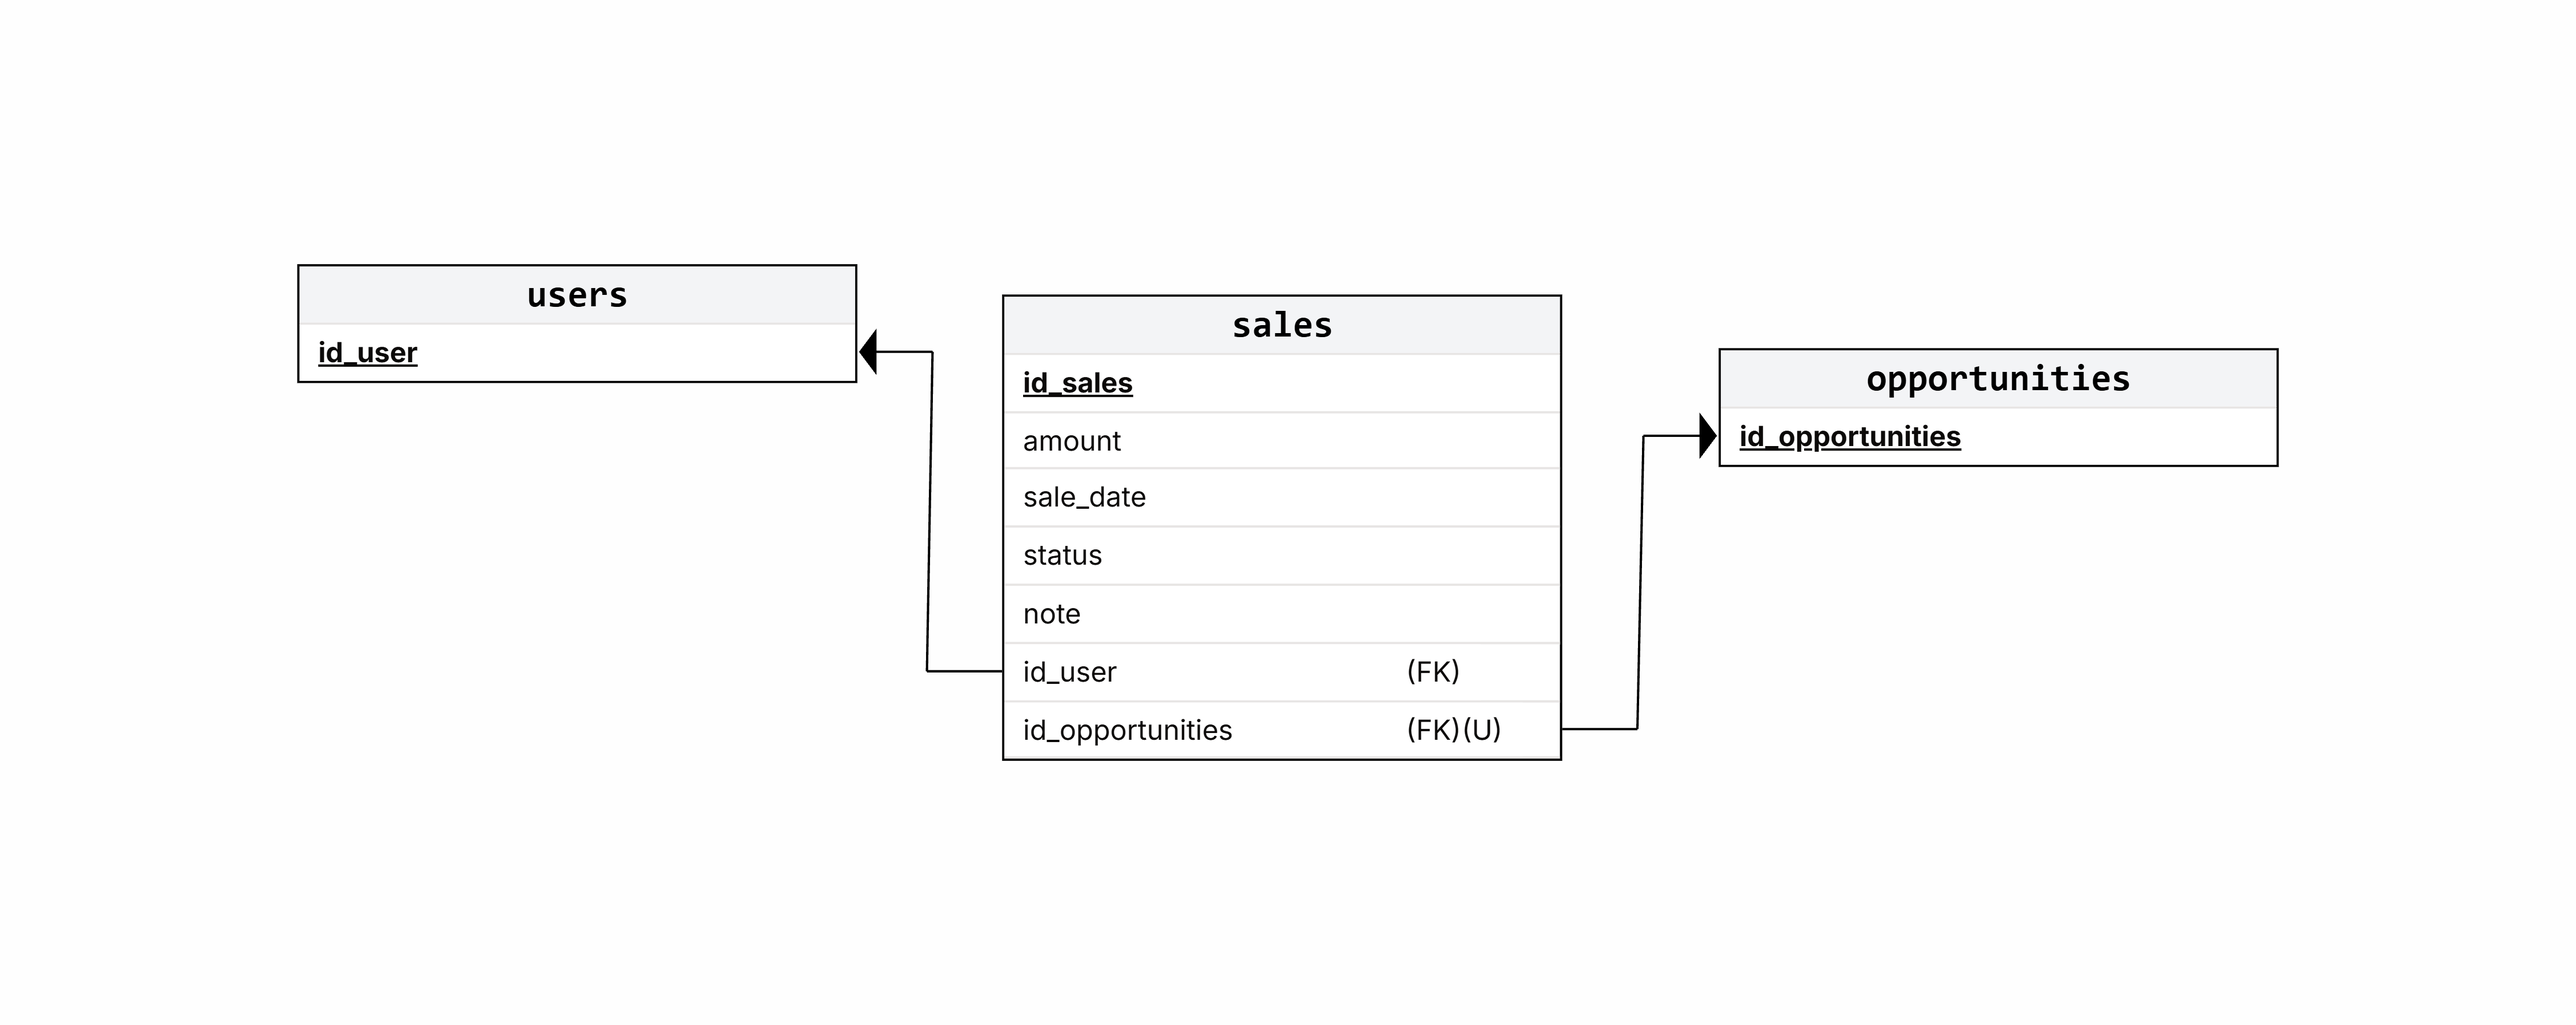
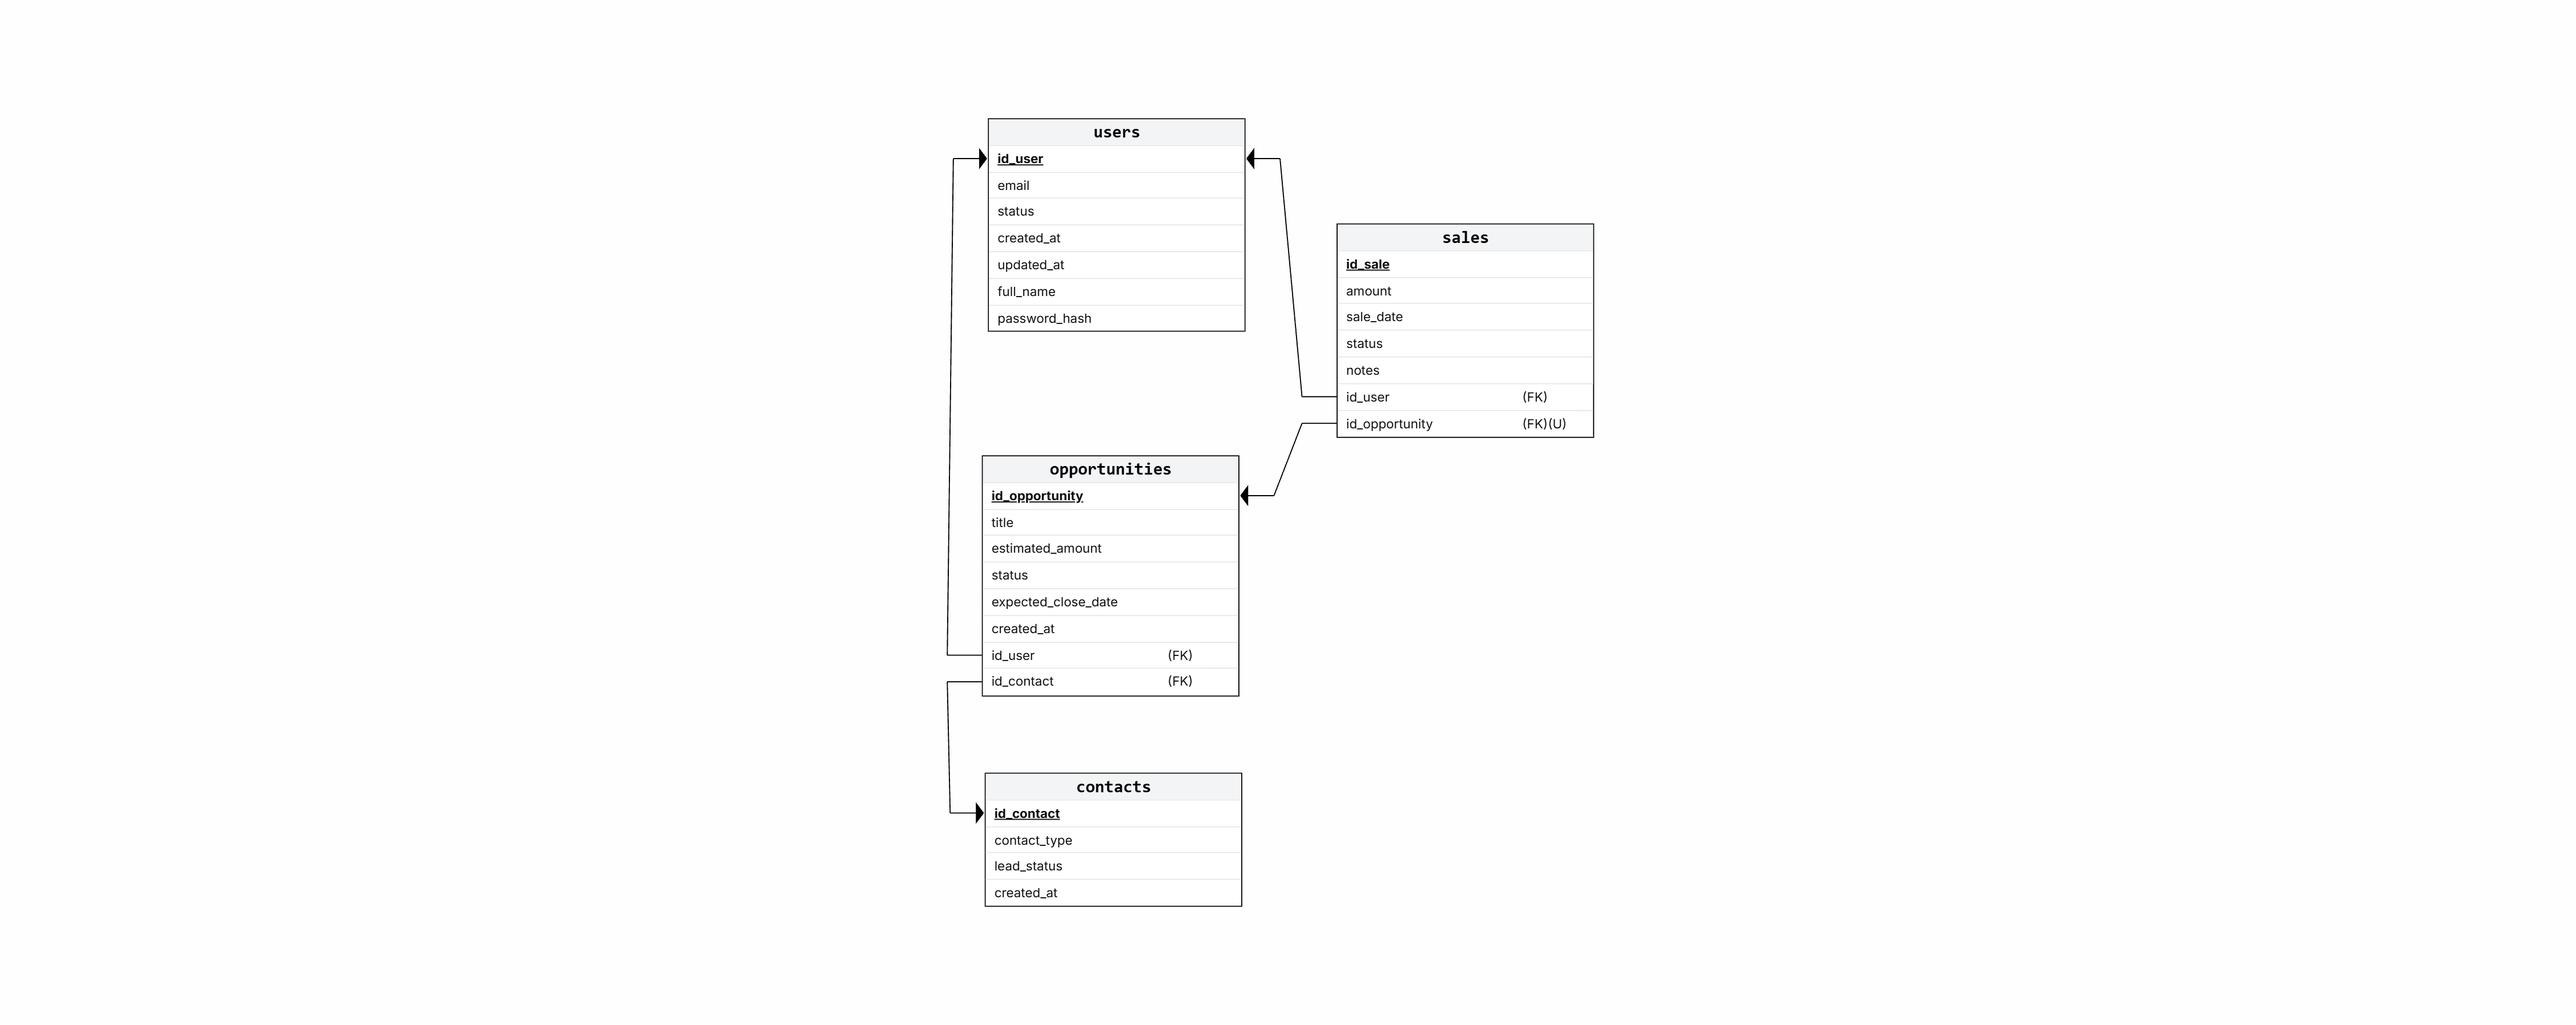
database diagram corregido

diff --git a/README.md b/README.md
@@ -545,83 +545,73 @@ La base de datos se organiza en cuatro bounded contexts: **Identity and Access**
 
 ![Database Diagram Identity and Access](Resources/Chapter4/Database-diagram/databaseIdentityAccessDiagram.png)
 
-Este diagrama representa la persistencia de usuarios, roles y permisos. La tabla `users` almacena los datos de acceso de los usuarios, mientras que `roles` define sus responsabilidades dentro de NovaLeads. La relación entre roles y permisos se implementa mediante la tabla intermedia `role_permissions`.
+Este diagrama presenta las tablas que permiten identificar a los usuarios y controlar sus permisos. `users` conserva la cuenta y el rol asignado; `roles` define los perfiles de acceso; `permissions` enumera las acciones autorizables; y `role_permissions` relaciona cada rol con sus permisos.
 
 | Tabla | Columnas principales |
-|---|---|
+| :--- | :--- |
 | `roles` | `id_role: BIGINT [PK]`, `name: VARCHAR(50) [UQ]`, `description: VARCHAR(255)` |
-| `users` | `id_user: BIGINT [PK]`, `id_role: BIGINT [FK]`, `email: VARCHAR(120) [UQ]`, `password_hash: VARCHAR(255)`, `status: ENUM('ACTIVE','INACTIVE')`, `created_at: DATETIME`, `updated_at: DATETIME`, `full_name: VARCHAR(120)` |
-| `permissions` | `id_permission: BIGINT [PK]`, `code: VARCHAR(80) [UQ]`, `description: VARCHAR(255)` |
+| `users` | `id_user: BIGINT [PK]`, `email: VARCHAR(120) [UQ]`, `password_hash: VARCHAR(255)`, `status: ENUM('ACTIVE','INACTIVE')`, `created_at: DATETIME`, `updated_at: DATETIME`, `full_name: VARCHAR(120)`, `id_role: BIGINT [FK]` |
+| `permissions` | `id_permission: BIGINT [PK]`, `code: VARCHAR(80) [UQ]` |
 | `role_permissions` | `id_role: BIGINT [PK, FK]`, `id_permission: BIGINT [PK, FK]` |
 
-* **roles:** define las responsabilidades que puede tener cada usuario dentro de NovaLeads, como dueño o vendedor.
-
-* **users:** almacena la información de acceso de cada usuario, incluyendo su correo, contraseña cifrada, estado y rol asignado.
-
-* **permissions:** define las acciones disponibles en la plataforma, como gestionar leads, contactos, conversaciones, usuarios o consultar métricas.
-
-* **role_permissions:** establece una relación de muchos a muchos entre roles y permisos, permitiendo asignar varios permisos a cada rol.
+* **`roles`:** identifica perfiles como dueño y vendedor. Un rol puede estar asignado a varios usuarios.
+* **`users`:** almacena los datos de acceso y el estado de cada cuenta. Su columna `id_role` referencia `roles.id_role`; la contraseña se representa mediante su hash, no mediante el valor original.
+* **`permissions`:** identifica acciones como gestionar usuarios, leads y conversaciones o consultar métricas. La unicidad de `code` evita códigos de permiso duplicados.
+* **`role_permissions`:** resuelve la relación de muchos a muchos entre roles y permisos. La combinación de `id_role` e `id_permission` forma su clave primaria y evita asignar dos veces el mismo permiso a un rol.
 
 ##### Lead and Contact Management
 
 ![Database Diagram Lead and Contact Management](Resources/Chapter4/Database-diagram/databaseLeadContactDiagram.png)
 
-Este diagrama representa la persistencia del bounded context **Lead and Contact Management**. La tabla `contacts` centraliza la información de leads y clientes; `tags` y `contact_tags` permiten clasificarlos; y `opportunities` registra las oportunidades comerciales asignadas a un vendedor.
+Este diagrama muestra cómo se guardan los leads, clientes, etiquetas y oportunidades comerciales. `contacts` reúne los datos comunes de leads y clientes; `contact_type` distingue ambas categorías y `lead_status` registra el estado de un lead. `users` aparece como referencia al contexto Identity and Access para indicar el usuario responsable de un contacto o una oportunidad.
 
 | Tabla | Columnas principales |
 | :--- | :--- |
-| `contacts` | `id_contact: BIGINT [PK]`, `id_user: BIGINT [FK]`, `full_name: VARCHAR(120)`, `email: VARCHAR(120)`, `phone: VARCHAR(30) [UQ]`, `company: VARCHAR(120)`, `contact_type: VARCHAR(10)`, `lead_status: VARCHAR(20)`, `source: VARCHAR(80)`, `created_at: DATETIME`, `updated_at: DATETIME` |
+| `contacts` | `id_contact: BIGINT [PK]`, `full_name: VARCHAR(120)`, `email: VARCHAR(120)`, `phone: VARCHAR(30) [UQ]`, `company: VARCHAR(120)`, `contact_type: VARCHAR(10)`, `lead_status: VARCHAR(20)`, `source: VARCHAR(80)`, `created_at: DATETIME`, `updated_at: DATETIME`, `id_user: BIGINT [FK]` |
 | `tags` | `id_tag: BIGINT [PK]`, `name: VARCHAR(50) [UQ]`, `color: VARCHAR(20)` |
 | `contact_tags` | `id_contact: BIGINT [PK, FK]`, `id_tag: BIGINT [PK, FK]` |
-| `opportunities` | `id_opportunity: BIGINT [PK]`, `id_contact: BIGINT [FK]`, `id_user: BIGINT [FK]`, `title: VARCHAR(150)`, `estimated_amount: DECIMAL(12,2)`, `status: VARCHAR(10)`, `expected_close_date: DATE`, `created_at: DATETIME` |
-| `user` | `id_user: BIGINT [PK]` |
+| `opportunities` | `id_opportunity: BIGINT [PK]`, `title: VARCHAR(150)`, `estimated_amount: DECIMAL(12,2)`, `status: VARCHAR(10)`, `expected_close_date: DATE`, `created_at: DATETIME`, `id_user: BIGINT [FK]`, `id_contact: BIGINT [FK]` |
+| `users` *(referencia externa)* | Se muestran `id_user: BIGINT [PK]`, `email: VARCHAR(120) [UQ]`, `status: ENUM('ACTIVE','INACTIVE')`, `created_at: DATETIME`, `updated_at: DATETIME`, `full_name: VARCHAR(120)` y `password_hash: VARCHAR(255)`. La definición de la tabla y su relación con `roles` pertenecen a Identity and Access. |
 
-* **contacts:** almacena los datos de leads y clientes. El atributo `contact_type` permite diferenciarlos y `lead_status` registra el estado comercial del lead.
-
-* **tags y contact_tags:** permiten asignar una o varias etiquetas a cada contacto.
-
-* **opportunities:** registra el monto estimado, estado, fecha esperada de cierre, contacto asociado y vendedor responsable.
-
-* **user:** se muestra como referencia del bounded context Identity and Access para asignar contactos y oportunidades a un vendedor.
+* **`contacts`:** registra los datos de contacto y su clasificación. `id_user` identifica al usuario responsable y `phone` permite localizar un contacto cuando llega un mensaje de WhatsApp.
+* **`tags` y `contact_tags`:** permiten asignar varias etiquetas a un contacto y utilizar una misma etiqueta en distintos contactos. `contact_tags` tiene una clave primaria compuesta.
+* **`opportunities`:** conserva el título, monto estimado, estado, fecha esperada de cierre, contacto asociado y usuario responsable. `id_contact` referencia `contacts.id_contact` e `id_user` referencia `users.id_user`.
+* **`users`:** se incluye para hacer visibles las relaciones con contactos y oportunidades. No representa una segunda tabla física ni administra roles dentro de este contexto.
 
 ##### Conversation Management
 
 ![Database Diagram Conversation Management](Resources/Chapter4/Database-diagram/databaseConversationManagementDiagram.png)
 
-Este diagrama representa la persistencia del bounded context **Conversation Management**. Gestiona las conversaciones con contactos, los mensajes recibidos o enviados mediante WhatsApp y las notificaciones dirigidas a los usuarios responsables.
+Este diagrama representa la persistencia de conversaciones, mensajes y notificaciones. Cada conversación se asocia con un contacto y un usuario responsable. Las referencias a `contacts` y `users` muestran los datos necesarios para identificar al contacto en WhatsApp y al destinatario de las alertas, sin redefinir esas tablas en este bounded context.
 
 | Tabla | Columnas principales |
 | :--- | :--- |
-| `conversations` | `id_conversation: BIGINT [PK]`, `id_contact: BIGINT [FK]`, `id_user: BIGINT [FK]`, `channel: VARCHAR(30)`, `status: VARCHAR(10)`, `priority: VARCHAR(10)`, `pending_since: DATETIME`, `last_message_at: DATETIME`, `created_at: DATETIME` |
-| `messages` | `id_message: BIGINT [PK]`, `id_conversation: BIGINT [FK]`, `sender_type: VARCHAR(10)`, `content: TEXT`, `sent_at: DATETIME`, `external_message_id: VARCHAR(120) [UQ]` |
-| `notifications` | `id_notification: BIGINT [PK]`, `id_user: BIGINT [FK]`, `id_conversation: BIGINT [FK]`, `type: VARCHAR(30)`, `content: VARCHAR(255)`, `is_read: BOOLEAN`, `created_at: DATETIME` |
-| `contacts` | `id_contact: BIGINT [PK]` |
-| `users` | `id_user: BIGINT [PK]` |
+| `conversations` | `id_conversation: BIGINT [PK]`, `channel: VARCHAR(30)`, `status: VARCHAR(10)`, `priority: VARCHAR(10)`, `pending_since: DATETIME`, `last_message_at: DATETIME`, `created_at: DATETIME`, `id_contact: BIGINT [FK]`, `id_user: BIGINT [FK]` |
+| `messages` | `id_message: BIGINT [PK]`, `sender_type: VARCHAR(10)`, `content: TEXT`, `sent_at: DATETIME`, `external_message_id: VARCHAR(120) [UQ]`, `id_conversation: BIGINT [FK]` |
+| `notifications` | `id_notification: BIGINT [PK]`, `type: VARCHAR(30)`, `content: VARCHAR(255)`, `is_read: BOOLEAN`, `created_at: DATETIME`, `id_user: BIGINT [FK]`, `id_conversation: BIGINT [FK]` |
+| `contacts` *(referencia externa)* | Se muestran `id_contact: BIGINT [PK]`, `full_name: VARCHAR(120)`, `phone: VARCHAR(30) [UQ]` y `contact_type: VARCHAR(10)`. Su definición corresponde a Lead and Contact Management. |
+| `users` *(referencia externa)* | Se muestran `id_user: BIGINT [PK]`, `full_name: VARCHAR(120)`, `email: VARCHAR(120) [UQ]` y `status: ENUM('ACTIVE','INACTIVE')`. Su definición corresponde a Identity and Access. |
 
-* **conversations:** registra el canal, estado, prioridad y tiempo pendiente de respuesta de cada conversación asociada a un contacto y vendedor.
-
-* **messages:** almacena el contenido, remitente y fecha de cada mensaje. `external_message_id` permite identificar los mensajes recibidos desde WhatsApp Business API.
-
-* **notifications:** registra las alertas generadas para los vendedores cuando llega un mensaje, existe una conversación pendiente o se asigna prioridad.
-
-* **contacts y users:** se muestran como tablas de referencia para asociar cada conversación con un contacto y con el usuario responsable.
+* **`conversations`:** conserva el canal, estado, prioridad y fechas necesarias para medir el tiempo pendiente de respuesta. `id_contact` apunta al contacto y `id_user` al usuario responsable.
+* **`messages`:** guarda los mensajes enviados y recibidos. `external_message_id` identifica los mensajes de un proveedor externo y evita registrar dos veces un mismo identificador.
+* **`notifications`:** registra alertas para un usuario relacionadas con una conversación. `is_read` permite distinguir las alertas pendientes de las ya revisadas.
+* **`contacts` y `users`:** se muestran como referencias a tablas existentes. Sus claves `id_contact` e `id_user` son destinos de las FK del contexto de conversaciones.
 
 ##### Sales and Dashboard
 
 ![Database Diagram Sales and Dashboard](Resources/Chapter4/Database-diagram/databaseSalesDashboardDiagram.png)
 
-Este diagrama representa la persistencia del bounded context **Sales and Dashboard**. Registra las ventas concretadas y permite relacionarlas con la oportunidad comercial y el vendedor responsable.
+Este diagrama registra las ventas y muestra los datos consultados para calcular las métricas del dashboard. `sales` es la tabla propia del contexto; `opportunities` y `contacts` provienen de Lead and Contact Management, mientras que `users` proviene de Identity and Access. Estas referencias permiten relacionar una venta con su oportunidad y vendedor, y contar los leads registrados.
 
 | Tabla | Columnas principales |
 | :--- | :--- |
-| `sales` | `id_sale: BIGINT [PK]`, `id_user: BIGINT [FK]`, `id_opportunity: BIGINT [FK, UQ]`, `amount: DECIMAL(12,2)`, `sale_date: DATE`, `status: VARCHAR(20)`, `notes: TEXT` |
-| `users` | `id_user: BIGINT [PK]` |
-| `opportunities` | `id_opportunity: BIGINT [PK]` |
+| `sales` | `id_sale: BIGINT [PK]`, `amount: DECIMAL(12,2)`, `sale_date: DATE`, `status: VARCHAR(20)`, `notes: TEXT`, `id_user: BIGINT [FK]`, `id_opportunity: BIGINT [FK, UQ]` |
+| `opportunities` *(referencia externa)* | Se muestran `id_opportunity: BIGINT [PK]`, `title: VARCHAR(150)`, `estimated_amount: DECIMAL(12,2)`, `status: VARCHAR(10)`, `expected_close_date: DATE`, `created_at: DATETIME`, `id_user: BIGINT [FK]` e `id_contact: BIGINT [FK]`. Su definición corresponde a Lead and Contact Management. |
+| `contacts` *(referencia externa)* | Se muestran `id_contact: BIGINT [PK]`, `contact_type: VARCHAR(10)`, `lead_status: VARCHAR(20)` y `created_at: DATETIME`. Su definición corresponde a Lead and Contact Management. |
+| `users` *(referencia externa)* | Se muestran `id_user: BIGINT [PK]`, `email: VARCHAR(120)`, `status: ENUM('ACTIVE','INACTIVE')`, `created_at: DATETIME`, `updated_at: DATETIME`, `full_name: VARCHAR(120)` y `password_hash: VARCHAR(255)`. Su definición y la unicidad de `email` se establecen en Identity and Access. |
 
-* **sales:** almacena el monto, fecha, estado y observaciones de las oportunidades que fueron concretadas.
-
-* **opportunities:** se relaciona con `sales` mediante `id_opportunity`. La restricción única `UQ` garantiza que una oportunidad genere como máximo una venta.
-
-* **users:** se relaciona con `sales` mediante `id_user`, permitiendo identificar las ventas realizadas por cada vendedor.
-
-* **Dashboard:** no requiere una tabla propia, ya que sus métricas se calculan a partir de la información registrada en `contacts`, `opportunities` y `sales`.
+* **`sales`:** almacena el monto, fecha, estado y observaciones de cada venta. `id_user` identifica al vendedor y `id_opportunity` enlaza con la oportunidad que se concretó.
+* **`opportunities`:** enlaza cada venta con el contacto y con la información comercial de origen. La restricción única en `sales.id_opportunity` establece un máximo de una venta por oportunidad.
+* **`contacts`:** permite contar los leads por clasificación y estado, incluso cuando todavía no existe una oportunidad asociada.
+* **`users`:** permite agrupar las ventas y oportunidades por usuario responsable; es la misma tabla física definida en Identity and Access.
+* **Dashboard:** no necesita una tabla propia. Sus indicadores se obtienen mediante consultas a `contacts`, `opportunities` y `sales`.
